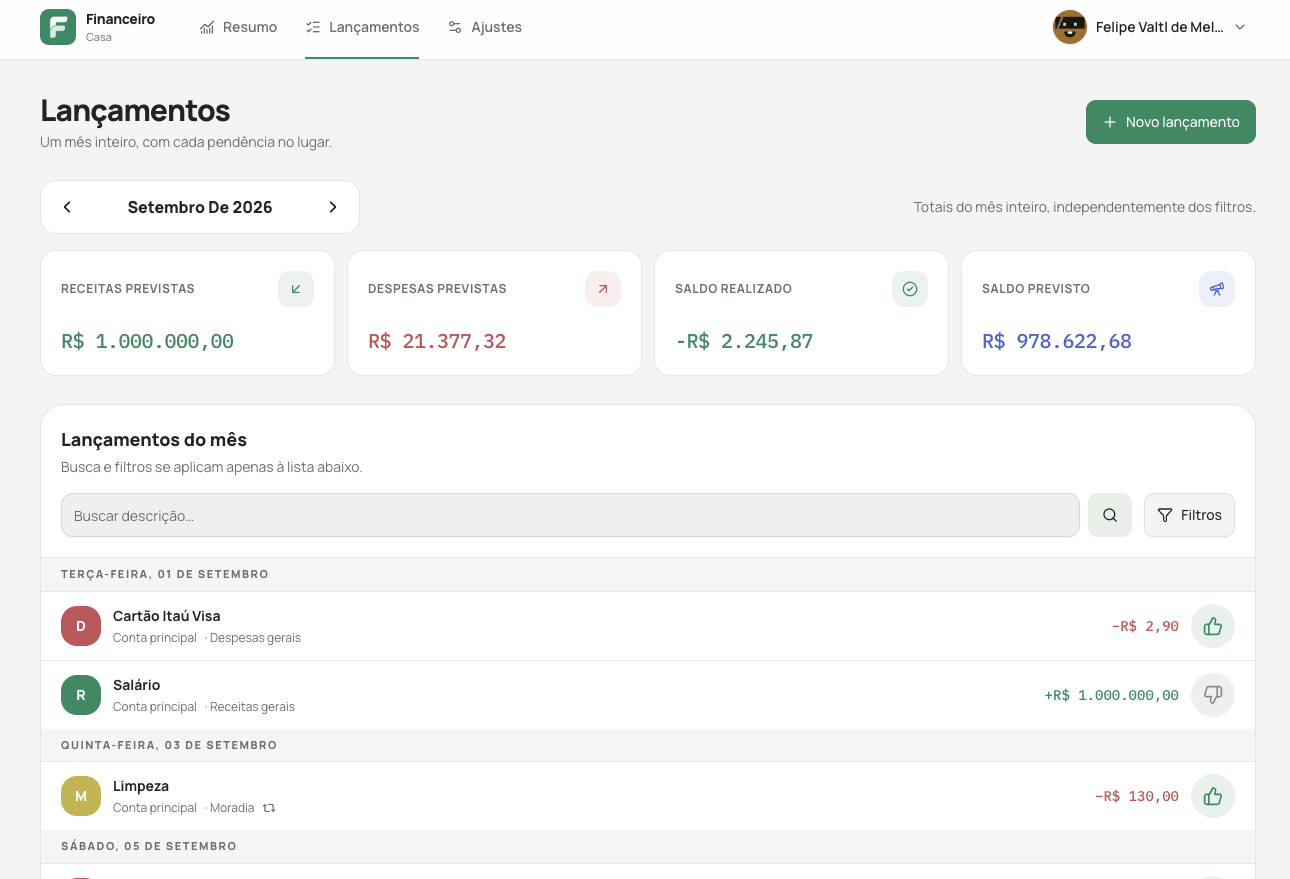
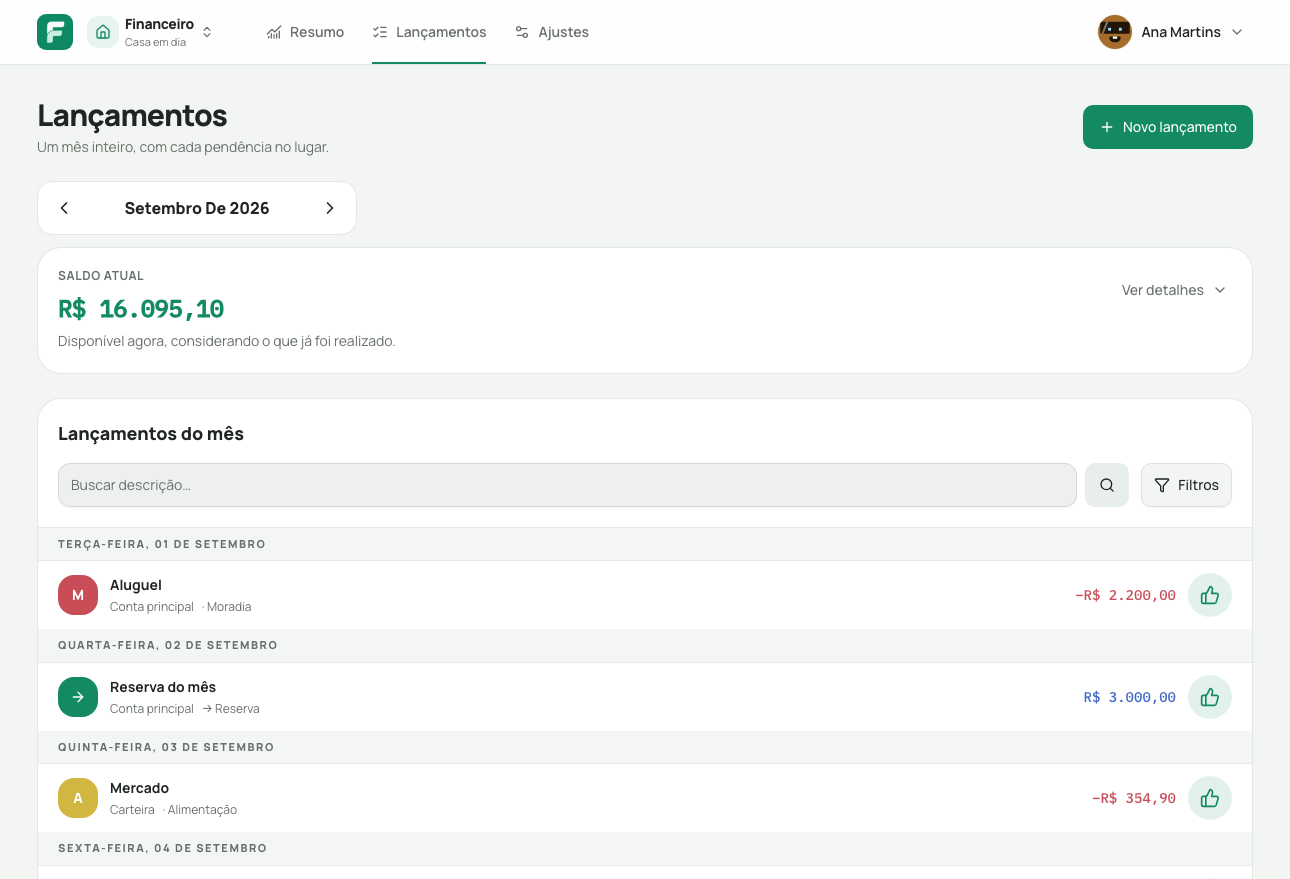
docs(readme): refresh transactions screenshot

diff --git a/README.md b/README.md
@@ -8,7 +8,7 @@ O app existe para responder duas perguntas, sem atrito: o que está previsto par
 [![Release](https://img.shields.io/github/v/release/valtlfelipe/financeiro)](https://github.com/valtlfelipe/financeiro/releases)
 [![Licença](https://img.shields.io/badge/licença-AGPL--3.0-blue.svg)](LICENSE)
 
-![Painel do Financeiro com resumo mensal, lançamentos pendentes e saldos de contas fictícias](docs/images/demo.png)
+![Tela de lançamentos do Financeiro com saldo atual e movimentações de uma conta fictícia](docs/images/demo.png)
 
 *Conta de demonstração com dados fictícios.*
 
